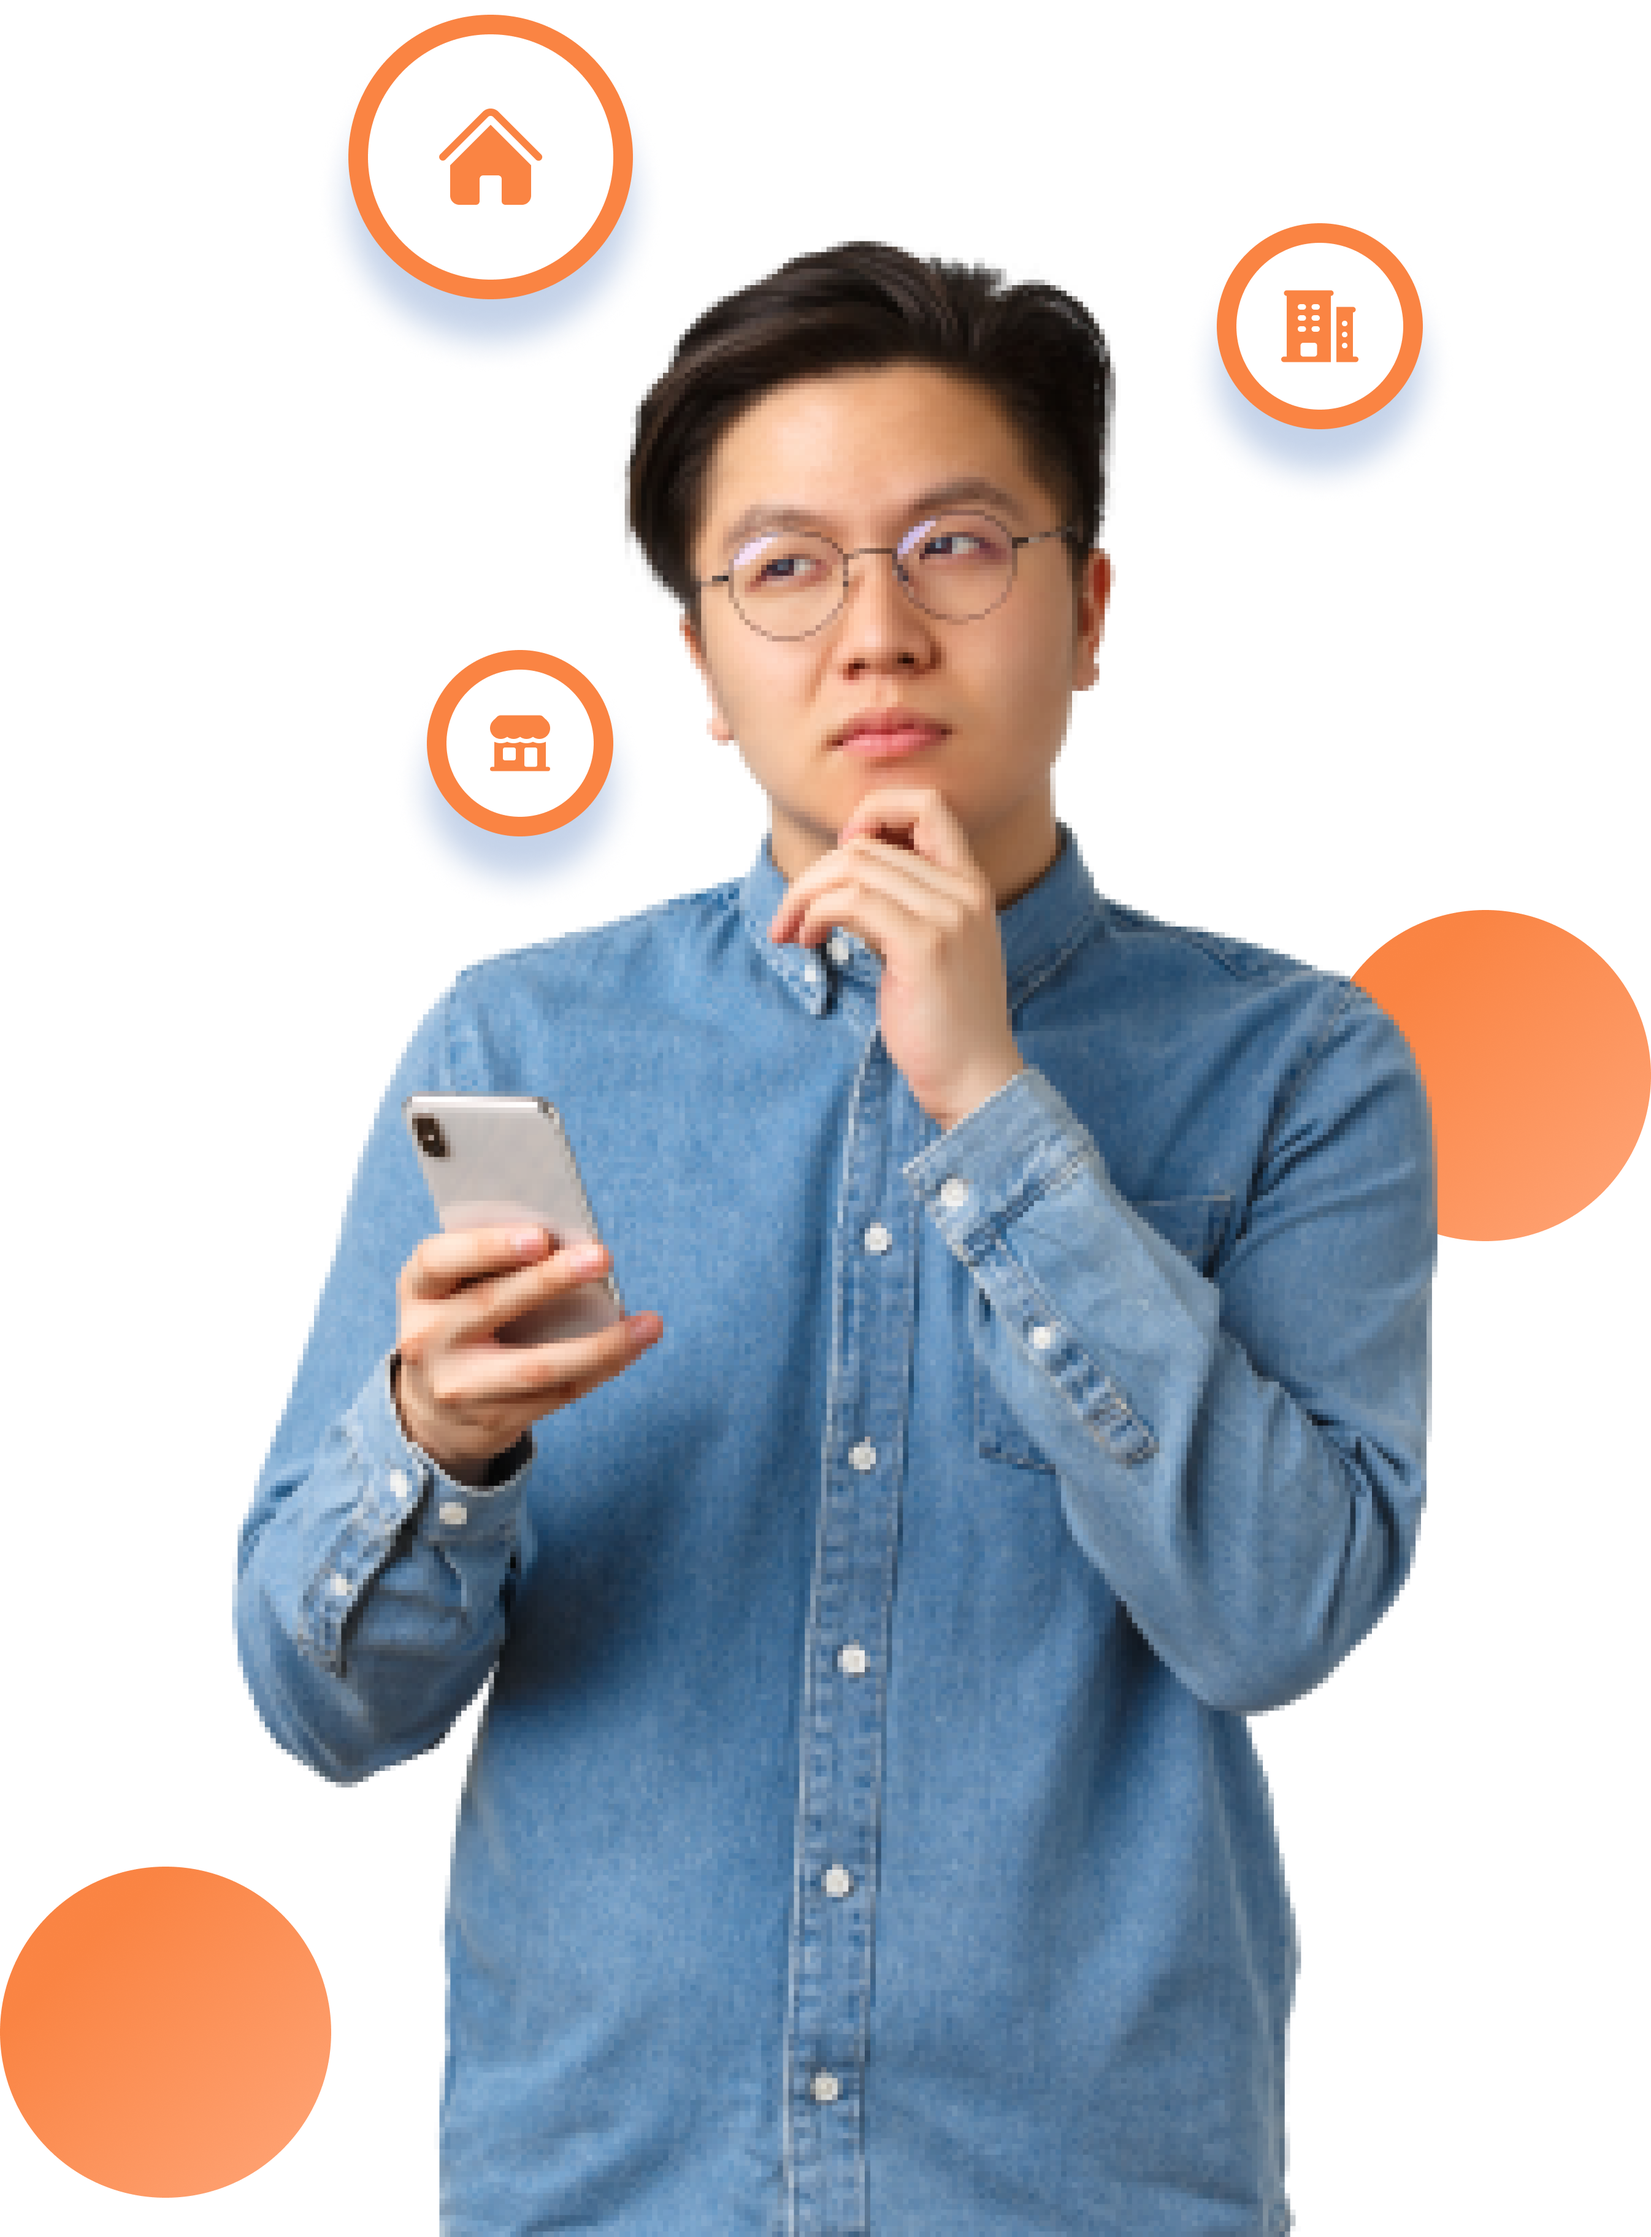
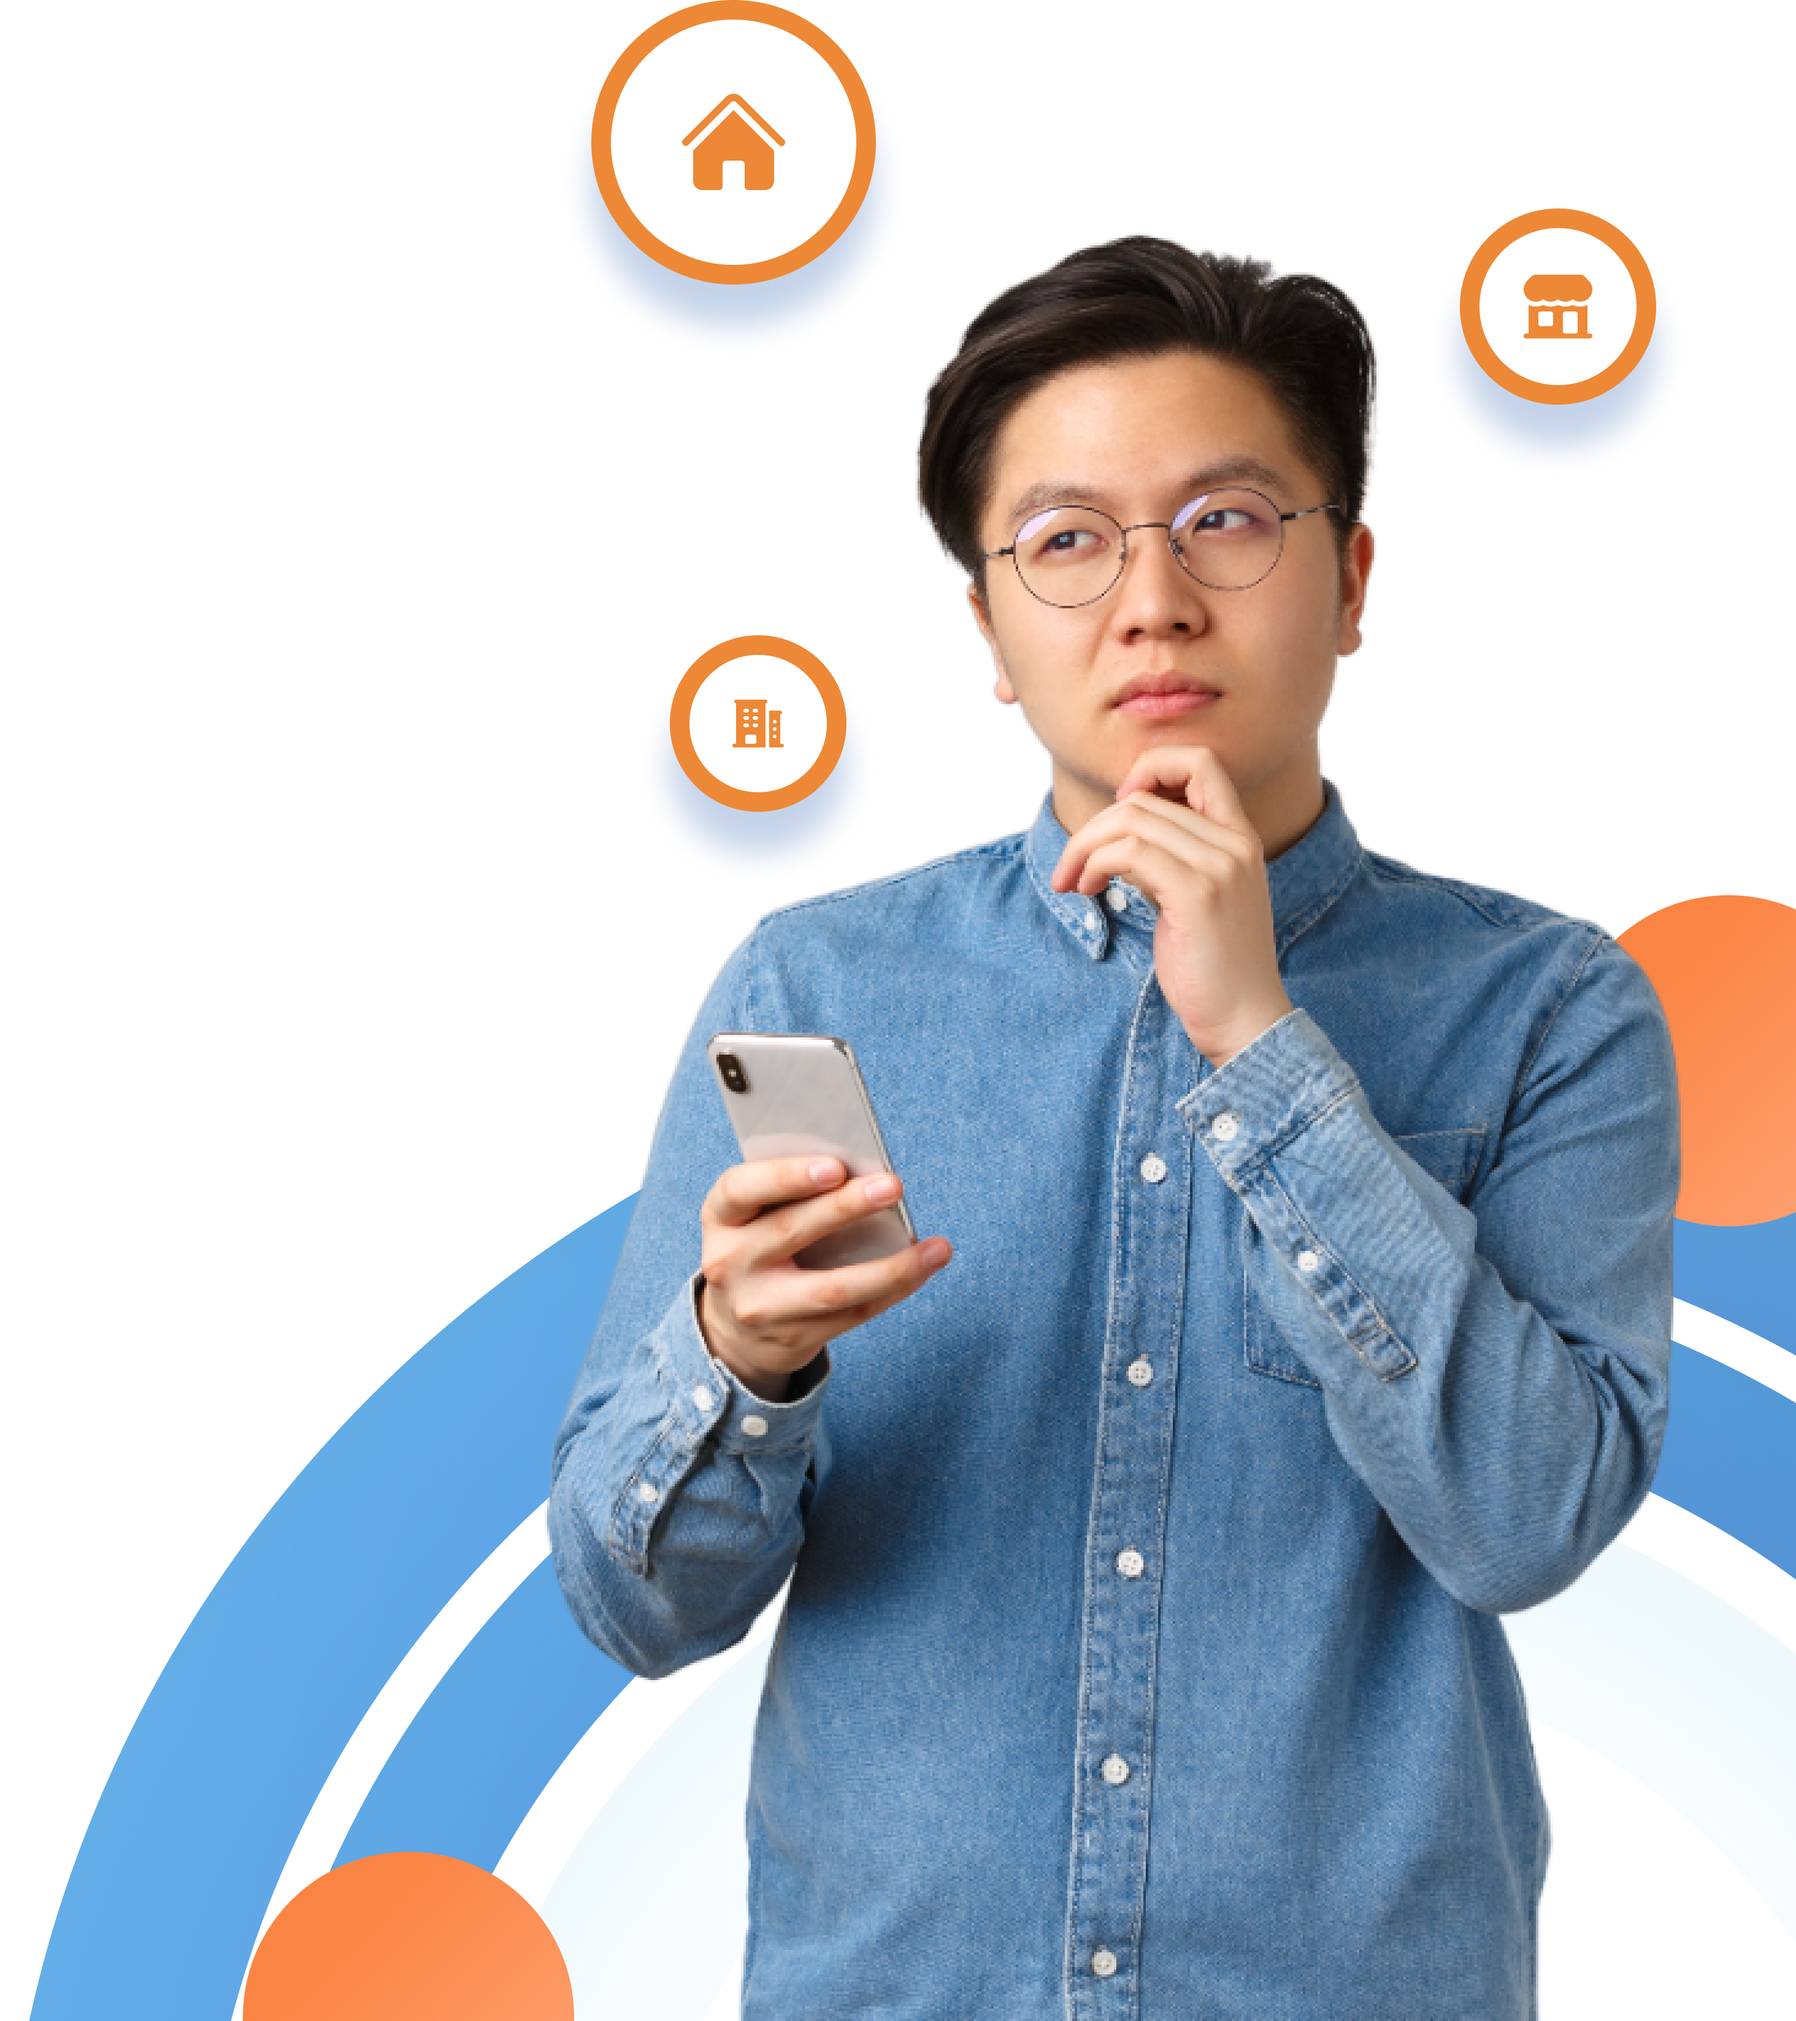
Add hero image to home page layout

diff --git a/src/features/detail/component/POIProperty.tsx b/src/features/detail/component/POIProperty.tsx
@@ -7,22 +7,22 @@ import {
   Heading,
   VStack,
   useToken,
-} from "@chakra-ui/react";
-import React from "react";
-import { FaGraduationCap, FaStore, FaTrain } from "react-icons/fa";
-import { GiHealthNormal } from "react-icons/gi";
-import { IoMdRestaurant } from "react-icons/io";
-import { layerName, sourceName } from "../../../config/constants/constants";
-import Map from "../../map";
-import useMapStore from "../../map/store/useMapStore";
-import usePoi from "../hooks/usePoi";
-import useDetailStore from "../store/useDetailStore";
-import IconSekolah from "../../../assets/icon/Sekolah.png";
-import IconRumahSakit from "../../../assets/icon/Rumah Sakit.png";
-import IconRestoran from "../../../assets/icon/Restoran.png";
-import IconBelanja from "../../../assets/icon/Belanja.png";
-import IconTransport from "../../../assets/icon/Transport.png";
-import IconBank from "../../../assets/icon/Bank.png";
+} from '@chakra-ui/react';
+import React from 'react';
+import { FaGraduationCap, FaStore, FaTrain } from 'react-icons/fa';
+import { GiHealthNormal } from 'react-icons/gi';
+import { IoMdRestaurant } from 'react-icons/io';
+import IconBank from '../../../assets/icon/Bank.png';
+import IconBelanja from '../../../assets/icon/Belanja.png';
+import IconRestoran from '../../../assets/icon/Restoran.png';
+import IconRumahSakit from '../../../assets/icon/Rumah Sakit.png';
+import IconSekolah from '../../../assets/icon/Sekolah.png';
+import IconTransport from '../../../assets/icon/Transport.png';
+import { layerName, sourceName } from '../../../config/constants/constants';
+import Map from '../../map';
+import useMapStore from '../../map/store/useMapStore';
+import usePoi from '../hooks/usePoi';
+import useDetailStore from '../store/useDetailStore';
 
 interface POIPropertyProps {}
 
@@ -32,18 +32,18 @@ const ButtonAction = ({
 }: ButtonProps & {
   children: React.ReactNode;
 }) => {
-  const [blue500] = useToken("colors", ["blue.500"]);
+  const [blue500] = useToken('colors', ['blue.500']);
   return (
     <Button
       bg="white"
       color="blue.500"
       _hover={{
         bg: blue500,
-        color: "white",
+        color: 'white',
       }}
       _active={{
         bg: blue500,
-        color: "white",
+        color: 'white',
       }}
       {...props}
     >
@@ -59,7 +59,7 @@ const POIProperty: React.FC<POIPropertyProps> = () => {
   const { data, isLoading } = usePoi();
   const iconPOI: any = {
     Sekolah: IconSekolah,
-    "Rumah Sakit": IconRumahSakit,
+    'Rumah Sakit': IconRumahSakit,
     Restoran: IconRestoran,
     Belanja: IconBelanja,
     Transport: IconTransport,
@@ -71,10 +71,10 @@ const POIProperty: React.FC<POIPropertyProps> = () => {
   const handleButtonClick = (category: string) => {
     setActiveButton(category === activeButton ? null : category);
     map?.setFilter(layerName.poiLayer, [
-      "match",
-      ["get", "kategori"],
-      category == "Semua"
-        ? ["Sekolah", "Rumah Sakit", "Restoran", "Belanja", "Transport", "Bank"]
+      'match',
+      ['get', 'kategori'],
+      category == 'Semua'
+        ? ['Sekolah', 'Rumah Sakit', 'Restoran', 'Belanja', 'Transport', 'Bank']
         : category,
       true,
       false,
@@ -85,7 +85,7 @@ const POIProperty: React.FC<POIPropertyProps> = () => {
     if (map && centroid) {
       map.flyTo({
         center: [centroid[0], centroid[1]!],
-        zoom: 20,
+        zoom: 15,
       });
 
       for (const icon in iconPOI) {
@@ -95,40 +95,40 @@ const POIProperty: React.FC<POIPropertyProps> = () => {
         });
       }
 
-      map.on("load", () => {
+      map.on('load', () => {
         if (map.getSource(sourceName.poi)) {
           map.removeLayer(layerName.poiLayer);
           map.removeSource(sourceName.poi);
-          map.removeLayer("polygon-detail-layer");
-          map.removeSource("polygon-detail");
+          map.removeLayer('polygon-detail-layer');
+          map.removeSource('polygon-detail');
         }
 
         map.addSource(sourceName.poi, {
-          type: "geojson",
+          type: 'geojson',
           data: data as any,
         });
 
         map.addLayer({
           id: layerName.poiLayer,
-          type: "symbol",
+          type: 'symbol',
           source: sourceName.poi,
           layout: {
-            "icon-image": ["get", "kategori"],
-            "icon-size": 0.5,
-            "icon-allow-overlap": true,
+            'icon-image': ['get', 'kategori'],
+            'icon-size': 0.5,
+            'icon-allow-overlap': true,
           },
         });
 
-        map.addSource("polygon-detail", {
-          type: "geojson",
+        map.addSource('polygon-detail', {
+          type: 'geojson',
           data: {
-            type: "FeatureCollection",
+            type: 'FeatureCollection',
             features: [
               {
-                type: "Feature",
+                type: 'Feature',
                 properties: {},
                 geometry: {
-                  type: "Polygon",
+                  type: 'Polygon',
                   coordinates: polygon,
                 },
               },
@@ -137,13 +137,13 @@ const POIProperty: React.FC<POIPropertyProps> = () => {
         });
 
         map.addLayer({
-          id: "polygon-detail-layer",
-          type: "fill",
-          source: "polygon-detail",
+          id: 'polygon-detail-layer',
+          type: 'fill',
+          source: 'polygon-detail',
           layout: {},
           paint: {
-            "fill-color": "#3182CE", // blue color fill
-            "fill-opacity": 0.5,
+            'fill-color': '#3182CE', // blue color fill
+            'fill-opacity': 0.5,
           },
         });
       });
@@ -157,49 +157,49 @@ const POIProperty: React.FC<POIPropertyProps> = () => {
       <Box w="full" h={380} rounded="lg" overflow="hidden" position="relative">
         <HStack position="absolute" zIndex={10} gap={4} p={4}>
           <ButtonAction
-            onClick={() => handleButtonClick("Semua")}
-            isActive={activeButton === "Semua"}
+            onClick={() => handleButtonClick('Semua')}
+            isActive={activeButton === 'Semua'}
           >
             Semua
           </ButtonAction>
           <ButtonAction
-            onClick={() => handleButtonClick("Sekolah")}
-            isActive={activeButton === "Sekolah"}
+            onClick={() => handleButtonClick('Sekolah')}
+            isActive={activeButton === 'Sekolah'}
             leftIcon={<FaGraduationCap />}
           >
             Sekolah
           </ButtonAction>
           <ButtonAction
-            onClick={() => handleButtonClick("Transportasi")}
-            isActive={activeButton === "Transportasi"}
+            onClick={() => handleButtonClick('Transportasi')}
+            isActive={activeButton === 'Transportasi'}
             leftIcon={<FaTrain />}
           >
             Transportasi
           </ButtonAction>
           <ButtonAction
-            onClick={() => handleButtonClick("Restoran")}
-            isActive={activeButton === "Restoran"}
+            onClick={() => handleButtonClick('Restoran')}
+            isActive={activeButton === 'Restoran'}
             leftIcon={<IoMdRestaurant />}
           >
             Restoran
           </ButtonAction>
           <ButtonAction
-            onClick={() => handleButtonClick("Rumah Sakit")}
-            isActive={activeButton === "Rumah Sakit"}
+            onClick={() => handleButtonClick('Rumah Sakit')}
+            isActive={activeButton === 'Rumah Sakit'}
             leftIcon={<GiHealthNormal />}
           >
             Rumah sakit
           </ButtonAction>
           <ButtonAction
-            onClick={() => handleButtonClick("Belanja")}
-            isActive={activeButton === "Belanja"}
+            onClick={() => handleButtonClick('Belanja')}
+            isActive={activeButton === 'Belanja'}
             leftIcon={<FaStore />}
           >
             Belanja
           </ButtonAction>
           <ButtonAction
-            onClick={() => handleButtonClick("Bank")}
-            isActive={activeButton === "Bank"}
+            onClick={() => handleButtonClick('Bank')}
+            isActive={activeButton === 'Bank'}
             leftIcon={<GiHealthNormal />}
           >
             Bank

diff --git a/src/pages/HomePage.tsx b/src/pages/HomePage.tsx
@@ -4,6 +4,7 @@ import {
   Flex,
   HStack,
   Heading,
+  Image,
   Stack,
   Text,
 } from '@chakra-ui/react';
@@ -11,6 +12,7 @@ import { FC } from 'react';
 import { Controller, useForm } from 'react-hook-form';
 import { FaMapMarkerAlt, FaSearch } from 'react-icons/fa';
 import { useNavigate } from 'react-router-dom';
+import HeroImage from '../assets/hero-image.png';
 import CustomSelect from '../components/CustomSelect/CustomSelect';
 import searchService from '../features/searchProperty/service/searchService';
 
@@ -47,6 +49,13 @@ const HomePage: FC<HomePageProps> = () => {
   return (
     <Flex alignItems="center" h="100%">
       <Stack direction="column" gap="4">
+        <Image
+          src={HeroImage}
+          w={800}
+          position="absolute"
+          right={0}
+          bottom={0}
+        />
         <Box>
           <Heading
             size="4xl"

diff --git a/src/components/navbar/Navbar.tsx b/src/components/navbar/Navbar.tsx
@@ -86,9 +86,6 @@ const Navbar: React.FC<NavbarProps> = () => {
             <Link color="gray.400" fontWeight="semibold">
               Disewa
             </Link>
-            <Link color="gray.400" fontWeight="semibold">
-              Tentang kami
-            </Link>
           </Flex>
         </Flex>
         <Flex gap="2">

diff --git a/src/layout/HomeLayout.tsx b/src/layout/HomeLayout.tsx
@@ -7,7 +7,7 @@ interface HomeLayoutProps {}
 
 const HomeLayout: FC<HomeLayoutProps> = () => {
   return (
-    <Box bg="blue.600" w="100%" h="100vh">
+    <Box bg="blue.600" w="100%" h="100vh" position="relative">
       <Navbar />
       <Container maxW="full" h="full" maxH="calc(100vh - 88px)" p="10">
         <Outlet />
